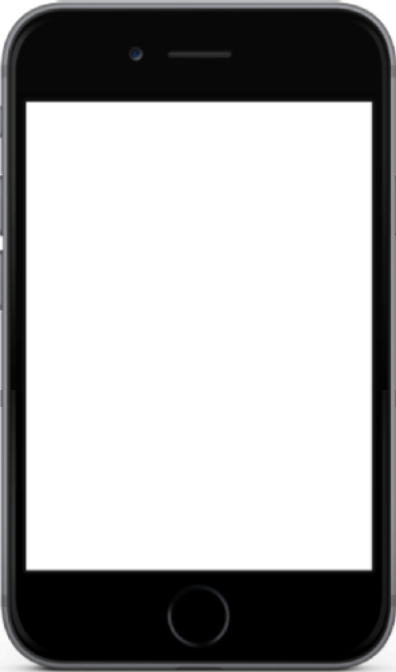
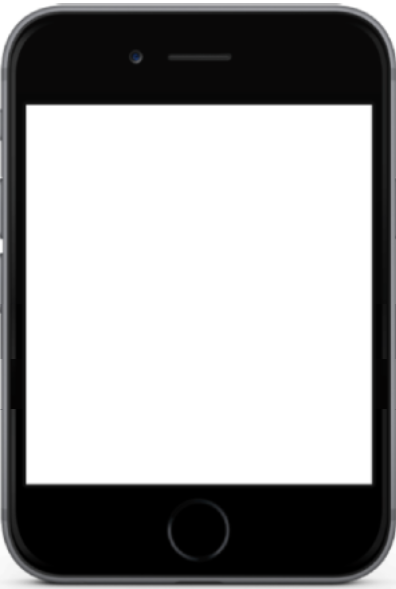
deploy: eb3925c6001fcac86c10c0d9dc957f52b6640d14

diff --git a/old-new-mobile-frame.png/index.html b/old-new-mobile-frame.png/index.html
@@ -3,26 +3,16 @@
     <head>
         <meta charset="UTF-8"><base href="/fpm-ui/">
         <meta name="viewport" content="width=device-width, initial-scale=1, maximum-scale=1, user-scalable=0">
-<link rel="canonical" href="/" />
-        <title>Welcome to the FPM Package Page</title>
+        <title>old-new-mobile-frame.png.ftd</title>
         <script type="ftd" id="ftd-data">{
-  "fifthtry.github.io/fpm-ui/-/#body@0,0": {
-    "value": "Here you find everything that you want to know about this package.",
+  "fifthtry.github.io/fpm-ui/old-new-mobile-frame.png/#src@0": {
+    "value": {
+      "$kind$": "light",
+      "dark": "-/fifthtry.github.io/fpm-ui/old-new-mobile-frame.png",
+      "light": "-/fifthtry.github.io/fpm-ui/old-new-mobile-frame.png"
+    },
     "dependencies": {
-      "0,0,1": [
-        {
-          "condition": "$IsNotNull$",
-          "dependency_type": "Visible",
-          "parameters": {},
-          "remaining": null
-        }
-      ]
-    }
-  },
-  "fifthtry.github.io/fpm-ui/-/#body@0,0,1": {
-    "value": "Here you find everything that you want to know about this package.",
-    "dependencies": {
-      "0,0,1": [
+      "0": [
         {
           "condition": null,
           "dependency_type": "Value",
@@ -31,321 +21,31 @@
         }
       ]
     }
-  },
-  "fifthtry.github.io/fpm-ui/-/#key@0,2": {
-    "value": "Built with `fpm-cli` version",
-    "dependencies": {
-      "0,2,0": [
-        {
-          "condition": null,
-          "dependency_type": "Value",
-          "parameters": {},
-          "remaining": null
-        }
-      ]
-    }
-  },
-  "fifthtry.github.io/fpm-ui/-/#key@0,3": {
-    "value": "Git hash for `fpm-cli` build",
-    "dependencies": {
-      "0,3,0": [
-        {
-          "condition": null,
-          "dependency_type": "Value",
-          "parameters": {},
-          "remaining": null
-        }
-      ]
-    }
-  },
-  "fifthtry.github.io/fpm-ui/-/#key@0,4": {
-    "value": "`fpm-cli` build timestamp",
-    "dependencies": {
-      "0,4,0": [
-        {
-          "condition": null,
-          "dependency_type": "Value",
-          "parameters": {},
-          "remaining": null
-        }
-      ]
-    }
-  },
-  "fifthtry.github.io/fpm-ui/-/#key@0,5": {
-    "value": "Language:",
-    "dependencies": {
-      "0,5,0": [
-        {
-          "condition": null,
-          "dependency_type": "Value",
-          "parameters": {},
-          "remaining": null
-        }
-      ]
-    }
-  },
-  "fifthtry.github.io/fpm-ui/-/#key@0,6": {
-    "value": "Zip:",
-    "dependencies": {
-      "0,6,0": [
-        {
-          "condition": null,
-          "dependency_type": "Value",
-          "parameters": {},
-          "remaining": null
-        }
-      ]
-    }
-  },
-  "fifthtry.github.io/fpm-ui/-/#key@0,7": {
-    "value": "Build timestamp",
-    "dependencies": {
-      "0,7,0": [
-        {
-          "condition": null,
-          "dependency_type": "Value",
-          "parameters": {},
-          "remaining": null
-        }
-      ]
-    }
-  },
-  "fifthtry.github.io/fpm-ui/-/#key@0,8": {
-    "value": "FTD version",
-    "dependencies": {
-      "0,8,0": [
-        {
-          "condition": null,
-          "dependency_type": "Value",
-          "parameters": {},
-          "remaining": null
-        }
-      ]
-    }
-  },
-  "fifthtry.github.io/fpm-ui/-/#title@0,0": {
-    "value": "Welcome to the FPM Package Page",
-    "dependencies": {
-      "0,0,0": [
-        {
-          "condition": null,
-          "dependency_type": "Value",
-          "parameters": {},
-          "remaining": null
-        }
-      ]
-    }
-  },
-  "fifthtry.github.io/fpm-ui/-/#value@0,2": {
-    "value": "0.1.10",
-    "dependencies": {
-      "0,2": [
-        {
-          "condition": "$IsNotNull$",
-          "dependency_type": "Visible",
-          "parameters": {},
-          "remaining": null
-        }
-      ],
-      "0,2,1": [
-        {
-          "condition": null,
-          "dependency_type": "Value",
-          "parameters": {},
-          "remaining": null
-        },
-        {
-          "condition": "$IsNotNull$",
-          "dependency_type": "Visible",
-          "parameters": {},
-          "remaining": null
-        }
-      ]
-    }
-  },
-  "fifthtry.github.io/fpm-ui/-/#value@0,3": {
-    "value": "d7c90a68184cce5b525ccafed6614850043a7961",
-    "dependencies": {
-      "0,3": [
-        {
-          "condition": "$IsNotNull$",
-          "dependency_type": "Visible",
-          "parameters": {},
-          "remaining": null
-        }
-      ],
-      "0,3,1": [
-        {
-          "condition": null,
-          "dependency_type": "Value",
-          "parameters": {},
-          "remaining": null
-        },
-        {
-          "condition": "$IsNotNull$",
-          "dependency_type": "Visible",
-          "parameters": {},
-          "remaining": null
-        }
-      ]
-    }
-  },
-  "fifthtry.github.io/fpm-ui/-/#value@0,4": {
-    "value": "2022-07-11T18:27:20.086236133+00:00",
-    "dependencies": {
-      "0,4": [
-        {
-          "condition": "$IsNotNull$",
-          "dependency_type": "Visible",
-          "parameters": {},
-          "remaining": null
-        }
-      ],
-      "0,4,1": [
-        {
-          "condition": null,
-          "dependency_type": "Value",
-          "parameters": {},
-          "remaining": null
-        },
-        {
-          "condition": "$IsNotNull$",
-          "dependency_type": "Visible",
-          "parameters": {},
-          "remaining": null
-        }
-      ]
-    }
-  },
-  "fifthtry.github.io/fpm-ui/-/#value@0,5": {
-    "value": null,
-    "dependencies": {
-      "0,5": [
-        {
-          "condition": "$IsNotNull$",
-          "dependency_type": "Visible",
-          "parameters": {},
-          "remaining": null
-        }
-      ],
-      "0,5,1": [
-        {
-          "condition": null,
-          "dependency_type": "Value",
-          "parameters": {},
-          "remaining": null
-        },
-        {
-          "condition": "$IsNotNull$",
-          "dependency_type": "Visible",
-          "parameters": {},
-          "remaining": null
-        }
-      ]
-    }
-  },
-  "fifthtry.github.io/fpm-ui/-/#value@0,6": {
-    "value": "github.com/fifthtry/fpm-ui/archive/refs/heads/main.zip",
-    "dependencies": {
-      "0,6": [
-        {
-          "condition": "$IsNotNull$",
-          "dependency_type": "Visible",
-          "parameters": {},
-          "remaining": null
-        }
-      ],
-      "0,6,1": [
-        {
-          "condition": null,
-          "dependency_type": "Value",
-          "parameters": {},
-          "remaining": null
-        },
-        {
-          "condition": "$IsNotNull$",
-          "dependency_type": "Visible",
-          "parameters": {},
-          "remaining": null
-        }
-      ]
-    }
-  },
-  "fifthtry.github.io/fpm-ui/-/#value@0,7": {
-    "value": "2022-07-13T11:22:43.675947252+00:00",
-    "dependencies": {
-      "0,7": [
-        {
-          "condition": "$IsNotNull$",
-          "dependency_type": "Visible",
-          "parameters": {},
-          "remaining": null
-        }
-      ],
-      "0,7,1": [
-        {
-          "condition": null,
-          "dependency_type": "Value",
-          "parameters": {},
-          "remaining": null
-        },
-        {
-          "condition": "$IsNotNull$",
-          "dependency_type": "Visible",
-          "parameters": {},
-          "remaining": null
-        }
-      ]
-    }
-  },
-  "fifthtry.github.io/fpm-ui/-/#value@0,8": {
-    "value": "",
-    "dependencies": {
-      "0,8": [
-        {
-          "condition": "$IsNotNull$",
-          "dependency_type": "Visible",
-          "parameters": {},
-          "remaining": null
-        }
-      ],
-      "0,8,1": [
-        {
-          "condition": null,
-          "dependency_type": "Value",
-          "parameters": {},
-          "remaining": null
-        },
-        {
-          "condition": "$IsNotNull$",
-          "dependency_type": "Visible",
-          "parameters": {},
-          "remaining": null
-        }
-      ]
-    }
-  },
-  "fpm#package-name": {
-    "value": "fifthtry.github.io/fpm-ui",
-    "dependencies": {
-      "0,1": [
-        {
-          "condition": null,
-          "dependency_type": "Value",
-          "parameters": {},
-          "remaining": null
-        }
-      ]
-    }
-  },
-  "fpm#theme-color": {
-    "value": null,
-    "dependencies": {}
   },
   "ftd#dark-mode": {
     "value": false,
     "dependencies": {
-      "$value#kind$": []
+      "$value#kind$": [
+        {
+          "condition": true,
+          "dependency_type": "Variable",
+          "parameters": {
+            "fifthtry.github.io/fpm-ui/old-new-mobile-frame.png/#src@0": {
+              "default": {
+                "important": false,
+                "reference": null,
+                "value": "light"
+              },
+              "value": {
+                "important": false,
+                "reference": null,
+                "value": "dark"
+              }
+            }
+          },
+          "remaining": null
+        }
+      ]
     }
   },
   "ftd#desktop-breakpoint": {
@@ -556,7 +256,7 @@ body.fpm-dark .ft_md a:visited code {
 }</style>
     </head>
     <body>
-        <div data-id="main:root" style="align-items: flex-start; border-radius: 0px; border-style: solid; border-width: 0px; box-sizing: border-box; display: flex; flex-direction: column; flex-wrap: nowrap; height: 100%; justify-content: flex-start; text-decoration: none; white-space: initial; width: 100%" ><div data-id="0:main" style="align-items: flex-start; border-radius: 0px; border-style: solid; border-width: 0px; box-sizing: border-box; display: flex; flex-direction: column; flex-wrap: nowrap; justify-content: flex-start; padding: 40px; text-decoration: none; white-space: initial; width: 100%" ><h1 data-id="0,0:main" id="welcome-to-the-fpm-package-page" style="align-items: flex-start; border-radius: 0px; border-style: solid; border-width: 0px; box-sizing: border-box; display: flex; flex-direction: column; flex-wrap: nowrap; justify-content: flex-start; padding-left: 90px; padding-right: 90px; text-decoration: none; white-space: initial; width: 100%" ><div data-id="0,0,0:main" style="border-radius: 0px; border-style: solid; border-width: 0px; box-sizing: border-box; padding-bottom: 24px; text-align: left; text-decoration: none; white-space: initial" class="ft_md">Welcome to the FPM Package Page</div><div data-id="0,0,1:main" style="border-radius: 0px; border-style: solid; border-width: 0px; box-sizing: border-box; padding-bottom: 34px; padding-top: 50px; text-align: left; text-decoration: none; white-space: initial" class="ft_md">Here you find everything that you want to know about this package.</div></h1><div data-id="0,1:main" style="border-radius: 0px; border-style: solid; border-width: 0px; box-sizing: border-box; text-align: left; text-decoration: none; white-space: initial" class="ft_md">fifthtry.github.io/fpm-ui</div><div data-id="0,2:main" data-spacing="margin-left:2px" style="align-items: flex-start; border-radius: 0px; border-style: solid; border-width: 0px; box-sizing: border-box; display: flex; flex-direction: row; flex-wrap: nowrap; justify-content: flex-start; margin-bottom: 5px; text-decoration: none; white-space: initial" ><div data-id="0,2,0:main" style="align-self: center; border-radius: 0px; border-style: solid; border-width: 0px; box-sizing: border-box; margin-bottom: auto; margin-top: auto; text-align: left; text-decoration: none; white-space: initial" class="ft_md">Built with <code>fpm-cli</code> version</div><div data-id="0,2,1:main" style="align-self: center; border-radius: 0px; border-style: solid; border-width: 0px; box-sizing: border-box; margin-bottom: auto; margin-left: 2px; margin-top: auto; text-align: left; text-decoration: none; white-space: initial" class="ft_md">0.1.10</div></div><div data-id="0,3:main" data-spacing="margin-left:2px" style="align-items: flex-start; border-radius: 0px; border-style: solid; border-width: 0px; box-sizing: border-box; display: flex; flex-direction: row; flex-wrap: nowrap; justify-content: flex-start; margin-bottom: 5px; text-decoration: none; white-space: initial" ><div data-id="0,3,0:main" style="align-self: center; border-radius: 0px; border-style: solid; border-width: 0px; box-sizing: border-box; margin-bottom: auto; margin-top: auto; text-align: left; text-decoration: none; white-space: initial" class="ft_md">Git hash for <code>fpm-cli</code> build</div><div data-id="0,3,1:main" style="align-self: center; border-radius: 0px; border-style: solid; border-width: 0px; box-sizing: border-box; margin-bottom: auto; margin-left: 2px; margin-top: auto; text-align: left; text-decoration: none; white-space: initial" class="ft_md">d7c90a68184cce5b525ccafed6614850043a7961</div></div><div data-id="0,4:main" data-spacing="margin-left:2px" style="align-items: flex-start; border-radius: 0px; border-style: solid; border-width: 0px; box-sizing: border-box; display: flex; flex-direction: row; flex-wrap: nowrap; justify-content: flex-start; margin-bottom: 5px; text-decoration: none; white-space: initial" ><div data-id="0,4,0:main" style="align-self: center; border-radius: 0px; border-style: solid; border-width: 0px; box-sizing: border-box; margin-bottom: auto; margin-top: auto; text-align: left; text-decoration: none; white-space: initial" class="ft_md"><code>fpm-cli</code> build timestamp</div><div data-id="0,4,1:main" style="align-self: center; border-radius: 0px; border-style: solid; border-width: 0px; box-sizing: border-box; margin-bottom: auto; margin-left: 2px; margin-top: auto; text-align: left; text-decoration: none; white-space: initial" class="ft_md">2022-07-11T18:27:20.086236133+00:00</div></div><div data-id="0,5:main" data-spacing="margin-left:2px" style="align-items: flex-start; border-radius: 0px; border-style: solid; border-width: 0px; box-sizing: border-box; display: none; flex-direction: row; flex-wrap: nowrap; justify-content: flex-start; margin-bottom: 5px; text-decoration: none; white-space: initial" ><div data-id="0,5,0:main" style="align-self: center; border-radius: 0px; border-style: solid; border-width: 0px; box-sizing: border-box; margin-bottom: auto; margin-top: auto; text-align: left; text-decoration: none; white-space: initial" class="ft_md">Language:</div><div data-id="0,5,1:main" style="align-self: center; border-radius: 0px; border-style: solid; border-width: 0px; box-sizing: border-box; display: none; margin-bottom: auto; margin-top: auto; text-align: left; text-decoration: none; white-space: initial" class="ft_md"></div></div><div data-id="0,6:main" data-spacing="margin-left:2px" style="align-items: flex-start; border-radius: 0px; border-style: solid; border-width: 0px; box-sizing: border-box; display: flex; flex-direction: row; flex-wrap: nowrap; justify-content: flex-start; margin-bottom: 5px; text-decoration: none; white-space: initial" ><div data-id="0,6,0:main" style="align-self: center; border-radius: 0px; border-style: solid; border-width: 0px; box-sizing: border-box; margin-bottom: auto; margin-top: auto; text-align: left; text-decoration: none; white-space: initial" class="ft_md">Zip:</div><div data-id="0,6,1:main" style="align-self: center; border-radius: 0px; border-style: solid; border-width: 0px; box-sizing: border-box; margin-bottom: auto; margin-left: 2px; margin-top: auto; text-align: left; text-decoration: none; white-space: initial" class="ft_md">github.com/fifthtry/fpm-ui/archive/refs/heads/main.zip</div></div><div data-id="0,7:main" data-spacing="margin-left:2px" style="align-items: flex-start; border-radius: 0px; border-style: solid; border-width: 0px; box-sizing: border-box; display: flex; flex-direction: row; flex-wrap: nowrap; justify-content: flex-start; margin-bottom: 5px; text-decoration: none; white-space: initial" ><div data-id="0,7,0:main" style="align-self: center; border-radius: 0px; border-style: solid; border-width: 0px; box-sizing: border-box; margin-bottom: auto; margin-top: auto; text-align: left; text-decoration: none; white-space: initial" class="ft_md">Build timestamp</div><div data-id="0,7,1:main" style="align-self: center; border-radius: 0px; border-style: solid; border-width: 0px; box-sizing: border-box; margin-bottom: auto; margin-left: 2px; margin-top: auto; text-align: left; text-decoration: none; white-space: initial" class="ft_md">2022-07-13T11:22:43.675947252+00:00</div></div><div data-id="0,8:main" data-spacing="margin-left:2px" style="align-items: flex-start; border-radius: 0px; border-style: solid; border-width: 0px; box-sizing: border-box; display: none; flex-direction: row; flex-wrap: nowrap; justify-content: flex-start; margin-bottom: 5px; text-decoration: none; white-space: initial" ><div data-id="0,8,0:main" style="align-self: center; border-radius: 0px; border-style: solid; border-width: 0px; box-sizing: border-box; margin-bottom: auto; margin-top: auto; text-align: left; text-decoration: none; white-space: initial" class="ft_md">FTD version</div><div data-id="0,8,1:main" style="align-self: center; border-radius: 0px; border-style: solid; border-width: 0px; box-sizing: border-box; display: none; margin-bottom: auto; margin-top: auto; text-align: left; text-decoration: none; white-space: initial" class="ft_md"></div></div></div></div>
+        <div data-id="main:root" style="align-items: flex-start; border-radius: 0px; border-style: solid; border-width: 0px; box-sizing: border-box; display: flex; flex-direction: column; flex-wrap: nowrap; height: 100%; justify-content: flex-start; text-decoration: none; white-space: initial; width: 100%" ><img alt="" data-id="0:main" src="-/fifthtry.github.io/fpm-ui/old-new-mobile-frame.png" style="border-radius: 0px; border-style: solid; border-width: 0px; box-sizing: border-box; text-decoration: none; white-space: initial"></div>
         <script>
             // all ftd_utils are meant to be pure functions only: they can only depend on the
 // input passed, not on closures or global data etc
